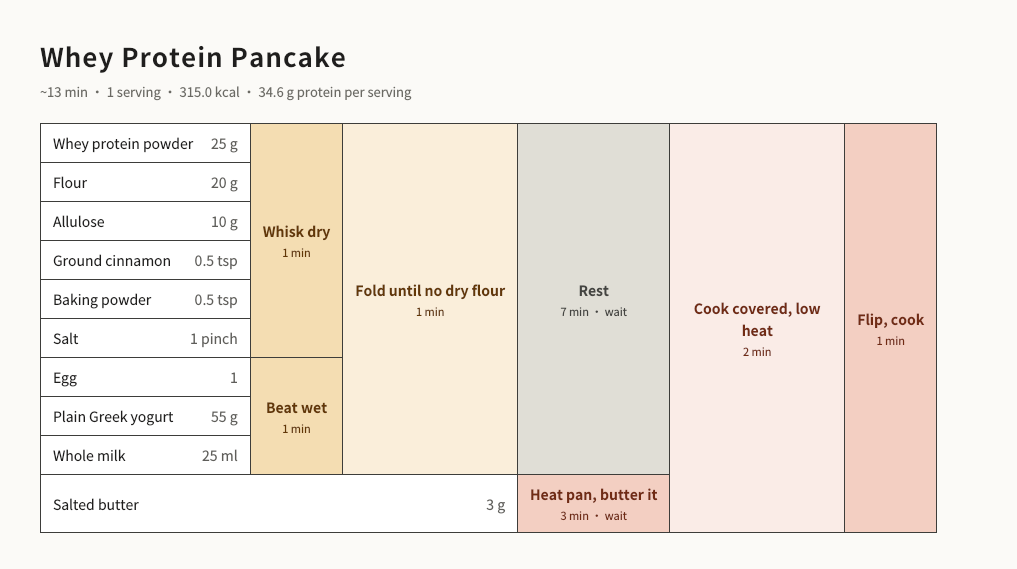
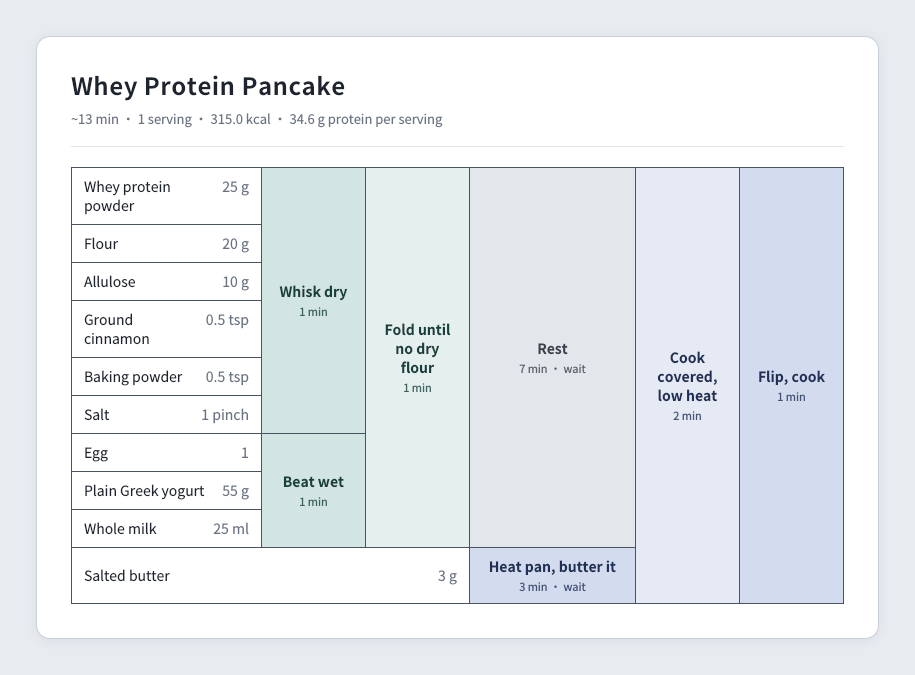
Calmer card-style images with wrapping, duration-scaled columns
- images: white rounded card on a cool grey page, cool palette
  (teal prep, slate-blue heat, grey wait), even outer margin
- table text wraps instead of stretching the table; step column
  widths scale with step duration (clamped), in images and chat widget
- style.md records the new look and how images are produced

Claude-Session: https://claude.ai/code/session_01QTuuncf3o8J9F6xQdQUiuV

Changed region(s): [[0.0306, 0.0598, 0.9792, 0.9561], [0.5508, 0.5079, 0.6426, 0.5677]]

diff --git a/skills/recipe-table/scripts/render_recipe.py b/skills/recipe-table/scripts/render_recipe.py
@@ -105,7 +105,16 @@ def dur(s):
     m = s.get("min")
     return "" if m is None else f"{m} min"
 
-def recipe_table(cls_on=True):
+def col_widths(ing, base, per, lo, hi):
+    """Pixel width per table column: ingredient column fixed, step columns grow with the longest
+    step in that column, so a 7-minute rest looks longer than a 1-minute stir (clamped both ways)."""
+    w = [ing]
+    for c in range(1, LAST + 1):
+        m = max((STEPS[k].get("min") or 0 for k in TREE if col[k] == c), default=0)
+        w.append(max(lo, min(hi, base + per * m)))
+    return w
+
+def recipe_table(cls_on=True, widths=None):
     """Ingredient cell: name first, quantity right-aligned. Step cell class = phase + column parity."""
     rows = []
     for l in leaves:
@@ -129,7 +138,11 @@ def recipe_table(cls_on=True):
                 break
             k = parent[k]
         rows.append("<tr>" + "".join(cells) + "</tr>")
-    return '<table class="cfe">' + "".join(rows) + "</table>"
+    if not widths:
+        return '<table class="cfe">' + "".join(rows) + "</table>"
+    cols = "".join(f'<col style="width:{w}px">' for w in widths)
+    return (f'<table class="cfe" style="table-layout:fixed;width:{sum(widths)}px"><colgroup>{cols}</colgroup>'
+            + "".join(rows) + "</table>")
 
 # ---------- schedule ----------
 # One cook: hands-on steps never overlap, in the order they are listed. Passive steps (resting,
@@ -205,7 +218,7 @@ def summary_line():
 # ---------- chat widget / page: borders only, no colour coding ----------
 CSS = """.cfe{border-collapse:collapse;font-size:13px;line-height:1.35}
 .cfe td{border:1px solid var(--line);padding:6px 10px;vertical-align:middle}
-.cfe .i{white-space:nowrap}
+.cfe .i{word-break:break-word}
 .cfe .q{float:right;margin-left:14px;color:var(--t2);font-variant-numeric:tabular-nums}
 .cfe .s{text-align:center;min-width:56px}
 .cfe .n{display:block;font-size:11px;color:var(--t2)}
@@ -243,62 +256,62 @@ def timeline():
     out.append(f'<div class="axl">分钟</div><div class="ax">{labels}</div>')
     return '<div class="gt">' + "".join(out) + "</div>"
 
-# ---------- image: phase colours (alternating shade per column), dark borders on every cell ----------
-PH = {  # light fill A, light fill B (alternate columns), text, bar
-    "prep": ("#FAEEDA", "#F4DDB2", "#633806", "#EF9F27"),
-    "heat": ("#FAECE7", "#F3CFC2", "#712B13", "#D85A30"),
-    "wait": ("#EFEEE9", "#E0DED6", "#444441", "#B4B2A9"),
+# ---------- image: a calm card; phase colours (alternating shade per column), dark borders on every cell ----------
+PH = {  # fill A, fill B (alternate columns), text, timeline bar
+    "prep": ("#E4EFEE", "#D2E5E2", "#173F3B", "#4E9089"),
+    "heat": ("#E5EAF4", "#D3DCEE", "#1F2F55", "#5468A0"),
+    "wait": ("#F1F2F4", "#E3E6EA", "#3A404B", "#A8AFBA"),
 }
+INK, MUTED, LINE, HAIR = "#1D2430", "#6A7383", "#4A5361", "#E2E6EC"
 
 def image_html(table_only=False):
-    track_w, lab_w = 420, 112
+    track_w, lab_w = 420, 120
     px = lambda v: round(track_w * v / total)
-    grid = "".join(f'<div style="position:absolute;left:{px(t)}px;top:0;bottom:0;width:1px;background:#e3e0d6"></div>' for t in ticks[1:-1])
+    grid = "".join(f'<div style="position:absolute;left:{px(t)}px;top:0;bottom:0;width:1px;background:{HAIR}"></div>' for t in ticks[1:-1])
     tl = []
     for k in order:
         s = STEPS[k]
         m = s.get("min") or 0
         bar = PH[s["phase"]][3]
         tl.append(f'<tr><td class="tl">{E(s["_action"])}</td><td class="tk"><div style="position:relative;height:30px;width:{track_w}px">{grid}'
-                  f'<div style="position:absolute;left:{px(start[k])}px;width:{max(px(m), 5)}px;top:9px;height:12px;background:{bar};border-radius:3px"></div>'
+                  f'<div style="position:absolute;left:{px(start[k])}px;width:{max(px(m), 5)}px;top:10px;height:10px;background:{bar};border-radius:2px"></div>'
                   f'</div></td></tr>')
     axis = "".join(f'<div style="position:absolute;left:{px(t) - 15}px;width:30px;text-align:center;top:4px">{t}</div>' for t in ticks)
-    tl.append(f'<tr><td class="tl axl">分钟</td><td><div style="position:relative;height:22px;width:{track_w}px;font-size:11px;color:#6b6a64">{axis}</div></td></tr>')
+    tl.append(f'<tr><td class="tl axl">{"min" if EN else "分钟"}</td><td><div style="position:relative;height:22px;width:{track_w}px;font-size:11px;color:{MUTED}">{axis}</div></td></tr>')
     step_css = "".join(f".cfe .{p}.c0{{background:{a};color:{t}}}.cfe .{p}.c1{{background:{b};color:{t}}}" for p, (a, b, t, _) in PH.items())
-    css = f"""body{{margin:0;padding:36px 40px;background:#fbfaf7;color:#1f1e1d;font-family:"Noto Sans CJK SC","Noto Sans SC",sans-serif;width:960px}}
-h1{{font-size:26px;font-weight:bold;margin:0 0 6px;letter-spacing:1px}}
-.sub{{color:#6b6a64;font-size:13px;margin-bottom:6px}}
-.sec{{font-size:12px;color:#6b6a64;margin:28px 0 10px;letter-spacing:2px;border-bottom:1px solid #d9d6cc;padding-bottom:6px;width:680px}}
-.cfe{{border-collapse:collapse;font-size:14px}}
-.cfe td{{border:1.5px solid #3d3d3a;padding:8px 12px;vertical-align:middle}}
-.cfe .i{{background:#fff;white-space:nowrap}}
-.cfe .q{{float:right;margin-left:18px;color:#5f5e5a;white-space:nowrap}}
-.cfe .s{{max-width:150px}}
+    css = f"""body{{margin:0;padding:36px;background:#E8ECF1;color:{INK};font-family:"Noto Sans CJK SC","Noto Sans SC",sans-serif;width:1100px}}
+.card{{display:inline-block;background:#fff;border:1px solid #C9D0DA;border-radius:14px;padding:30px 34px 34px;-webkit-box-shadow:0 2px 12px rgba(29,36,48,.08)}}
+h1{{font-size:24px;font-weight:bold;margin:0 0 6px;letter-spacing:.5px}}
+.sub{{color:{MUTED};font-size:13px;padding-bottom:18px;margin-bottom:20px;border-bottom:1px solid {HAIR}}}
+.sec{{font-size:12px;color:{MUTED};margin:28px 0 10px;letter-spacing:2px}}
+.cfe{{border-collapse:collapse;font-size:14px;line-height:1.4}}
+.cfe td{{border:1px solid {LINE};padding:9px 12px;vertical-align:middle}}
+.cfe .i{{background:#fff;word-wrap:break-word}}
+.cfe .q{{float:right;margin-left:12px;color:{MUTED};white-space:nowrap}}
 .cfe .s{{text-align:center;font-weight:bold}}
 {step_css}
-.cfe .n{{display:block;font-size:11px;font-weight:normal;margin-top:2px}}
-.cfe .i .n{{color:#888780}}
+.cfe .n{{display:block;font-size:11px;font-weight:normal;margin-top:3px;opacity:.8}}
+.cfe .i .n{{color:{MUTED};opacity:1}}
 .tlt{{border-collapse:collapse;font-size:13px}}
 .tlt td{{padding:0}}
-.tlt .tk{{border-bottom:1px solid #e3e0d6}}
-.tl{{width:{lab_w}px;padding-right:12px !important;white-space:nowrap;border-bottom:1px solid #e3e0d6}}
-.axl{{border-bottom:none !important;font-size:11px;color:#6b6a64}}
+.tlt .tk{{border-bottom:1px solid {HAIR}}}
+.tl{{width:{lab_w}px;padding-right:12px !important;white-space:nowrap;border-bottom:1px solid {HAIR};color:{INK}}}
+.axl{{border-bottom:none !important;font-size:11px;color:{MUTED} !important}}
 .nt{{border-collapse:collapse;font-size:14px}}
-.nt th,.nt td{{border:1.5px solid #3d3d3a;padding:7px 16px;text-align:left}}
-.nt th{{background:#F1EFE8;font-weight:bold}}
+.nt th,.nt td{{border:1px solid {LINE};padding:7px 16px;text-align:left}}
+.nt th{{background:#EEF1F5;font-weight:bold}}
 .nt .v{{text-align:right}}
-.nt .u{{color:#888780;font-size:11px;margin-left:4px}}
+.nt .u{{color:{MUTED};font-size:11px;margin-left:4px}}
 """
+    table = recipe_table(widths=col_widths(190, 40, 18, 104, 176))
     head = f"<h1>{E(TITLE)}</h1><div class=\"sub\">{E(summary_line())}</div>"
     if table_only:
-        return (f'<!doctype html><html><head><meta charset="utf-8"><style>{css}</style></head><body>'
-                f'{head}<div style="height:16px"></div>{recipe_table()}</body></html>')
-    nut = f'<div class="sec">营养成分</div>{nutrition_html()}' if has_nut else ""
-    return (f'<!doctype html><html><head><meta charset="utf-8"><style>{css}</style></head><body>'
-            f"{head}"
-            f'<div class="sec">配方</div>{recipe_table()}'
-            f'<div class="sec">时间线</div><table class="tlt">{"".join(tl)}</table>'
-            f'{nut}</body></html>')
+        body = f"{head}{table}"
+    else:
+        nut = f'<div class="sec">营养成分</div>{nutrition_html()}' if has_nut else ""
+        body = (f"{head}{table}"
+                f'<div class="sec">时间线</div><table class="tlt">{"".join(tl)}</table>{nut}')
+    return f'<!doctype html><html><head><meta charset="utf-8"><style>{css}</style></head><body><div class="card">{body}</div></body></html>'
 
 # ---------- outputs ----------
 if mode == "widget":
@@ -306,7 +319,7 @@ if mode == "widget":
     summary = f'{E(TITLE)}：{len(ING)} 种材料，{len(TREE)} 个步骤，约 {total} 分钟'
     doc = (f"<style>{vars_}{CSS}</style><h2 class=\"sr-only\">{summary}</h2>"
            f'<div class="sum">{E(summary_line())}</div>'
-           f'<div class="wrap">{recipe_table()}</div>{timeline()}{nutrition_html()}')
+           f'<div class="wrap">{recipe_table(widths=col_widths(124, 30, 12, 58, 132))}</div>{timeline()}{nutrition_html()}')
 elif mode == "page":
     vars_ = (":root{--bg:#fff;--fg:#222;--line:#555;--line2:#ddd;--t2:#666;--t3:#bbb;--fg2:#444}"
              "@media (prefers-color-scheme:dark){:root:not([data-theme=light]){--bg:#1b1b1d;--fg:#eee;--line:#aaa;--line2:#3a3a3d;--t2:#aaa;--t3:#666;--fg2:#ddd}}")
@@ -318,7 +331,7 @@ elif mode == "page":
 elif mode in ("png", "table-png"):
     with tempfile.NamedTemporaryFile("w", suffix=".html", delete=False, encoding="utf-8") as f:
         f.write(image_html(table_only=mode == "table-png"))
-    subprocess.run(["wkhtmltoimage", "--quiet", "--enable-local-file-access", "--zoom", "2", "--width", "2080",
+    subprocess.run(["wkhtmltoimage", "--quiet", "--enable-local-file-access", "--zoom", "2", "--width", "2344",
                     "--format", "png", f.name, out], check=True, stderr=subprocess.DEVNULL)
     os.unlink(f.name)
     try:  # trim unused canvas on the right/bottom, keep a margin
@@ -327,7 +340,7 @@ elif mode in ("png", "table-png"):
         bg = Image.new("RGB", im.size, im.getpixel((0, 0)))
         box = ImageChops.difference(im, bg).getbbox()
         if box:
-            im.crop((0, 0, min(im.width, box[2] + 80), min(im.height, box[3] + 72))).save(out)
+            im.crop((0, 0, min(im.width, box[2] + box[0]), min(im.height, box[3] + box[1]))).save(out)  # same margin all round
     except ImportError:
         pass
     doc = None

diff --git a/skills/recipe-table/references/style.md b/skills/recipe-table/references/style.md
@@ -16,14 +16,16 @@
 
 - 不用颜色区分，只用实线边框。用户觉得对话里的颜色看不清。
 - 时间线里动手的步骤用深色条，`passive` 步骤（静置、热锅等）用浅灰条。
+- 表格文字可换行，列宽和图片版一样按时长大致成比例。
 - 颜色都用 visualizer 的 CSS 变量，深色模式自动适配。
 
-## 图片版（`--png`）
+## 图片版（`--png` / `--table-png`）
 
-- 步骤格按 `phase` 上浅色：备料/混合浅黄、等待浅灰、加热浅橙红。
+- 整体是一张卡片：浅灰蓝底色上一张白色圆角卡片，细边框加很淡的阴影，四周留白一致。
+- 配色冷静、偏冷色，不用暖色：备料/混合是浅青绿，加热是浅灰蓝，等待是浅灰；时间线条形用对应的深一号颜色。
 - 相邻两列同一阶段时一深一浅交替（按列号奇偶），避免两个同色格子贴在一起看不出边界。
-- 每个格子都有深色实线边框，不能只靠颜色区分格子。
-- 时间线条形用对应阶段的颜色。
+- 每个格子都有深灰实线边框，不能只靠颜色区分格子。
+- 文字可以换行，不让长名称把表格撑宽：材料列固定宽度，名称换行、用量靠右不换行；步骤动作尽量短，避免一个词被拆开。
+- 步骤列宽大致和时长成比例（有上下限），7 分钟的静置看起来比 1 分钟的拌匀宽。
 - 只要配方表的图片（`--table-png`）：只留标题和下面那行摘要，其他文字（分节标题、时间线、营养表）都不要。中文、英文各一张。
-- 画布按 960px 排版，避免英文名称和用量挤在一起；渲染后裁掉多余空白。
-- 用老版 WebKit（wkhtmltoimage）渲染：不支持 CSS 变量、grid、flex，布局用表格和绝对定位。渲染后自动裁掉右侧和底部空白。
+- 生成方式：脚本先拼出 HTML，再用 wkhtmltoimage（老版 WebKit）截图成 PNG，2 倍分辨率。它不支持 CSS 变量、grid、flex，布局用表格、inline-block 和绝对定位。渲染后按卡片外留白裁掉多余画布。

diff --git a/recipes/breakfast/protein-french-toast.md b/recipes/breakfast/protein-french-toast.md
@@ -4,7 +4,7 @@
 
 ## 配方表
 
-<table class="cfe"><tr><td colspan="1">0 脂希腊酸奶 <b>50 g</b></td><td rowspan="4" colspan="1">搅匀蛋液<br><sub>2 min</sub></td><td rowspan="5" colspan="1">面包两面浸透<br><sub>2 min · 等待</sub></td><td rowspan="6" colspan="1">煎第一面<br><sub>3 min</sub></td><td rowspan="6" colspan="1">翻面再煎<br><sub>3 min</sub></td></tr><tr><td colspan="1">全脂牛奶 <b>50 ml</b></td></tr><tr><td colspan="1">鸡蛋 <b>3 个</b></td></tr><tr><td colspan="1">阿洛酮糖 <b>20 g</b></td></tr><tr><td colspan="2">高蛋白低碳面包 <b>3 片</b><br><sub>约 125 g</sub></td></tr><tr><td colspan="2">含盐黄油 <b>10 g</b></td><td rowspan="1" colspan="1">热锅化黄油<br><sub>2 min · 等待</sub></td></tr></table>
+<table class="cfe"><tr><td colspan="1">0 脂希腊酸奶 <b>50 g</b></td><td rowspan="4" colspan="1">搅匀蛋液<br><sub>2 min</sub></td><td rowspan="5" colspan="1">面包浸透<br><sub>2 min · 等待</sub></td><td rowspan="6" colspan="1">煎第一面<br><sub>3 min</sub></td><td rowspan="6" colspan="1">翻面再煎<br><sub>3 min</sub></td></tr><tr><td colspan="1">全脂牛奶 <b>50 ml</b></td></tr><tr><td colspan="1">鸡蛋 <b>3 个</b></td></tr><tr><td colspan="1">阿洛酮糖 <b>20 g</b></td></tr><tr><td colspan="2">高蛋白低碳面包 <b>3 片</b><br><sub>约 125 g</sub></td></tr><tr><td colspan="2">含盐黄油 <b>10 g</b></td><td rowspan="1" colspan="1">热锅化黄油<br><sub>2 min · 等待</sub></td></tr></table>
 
 ## 时间线
 
@@ -14,7 +14,7 @@ dateFormat mm
 axisFormat %M
 todayMarker off
   搅匀蛋液 :wet, 00, 2m
-  面包两面浸透 :done, soak, 02, 2m
+  面包浸透 :done, soak, 02, 2m
   热锅化黄油 :done, heat, 02, 2m
   煎第一面 :fry, 04, 3m
   翻面再煎 :flip, 07, 3m
